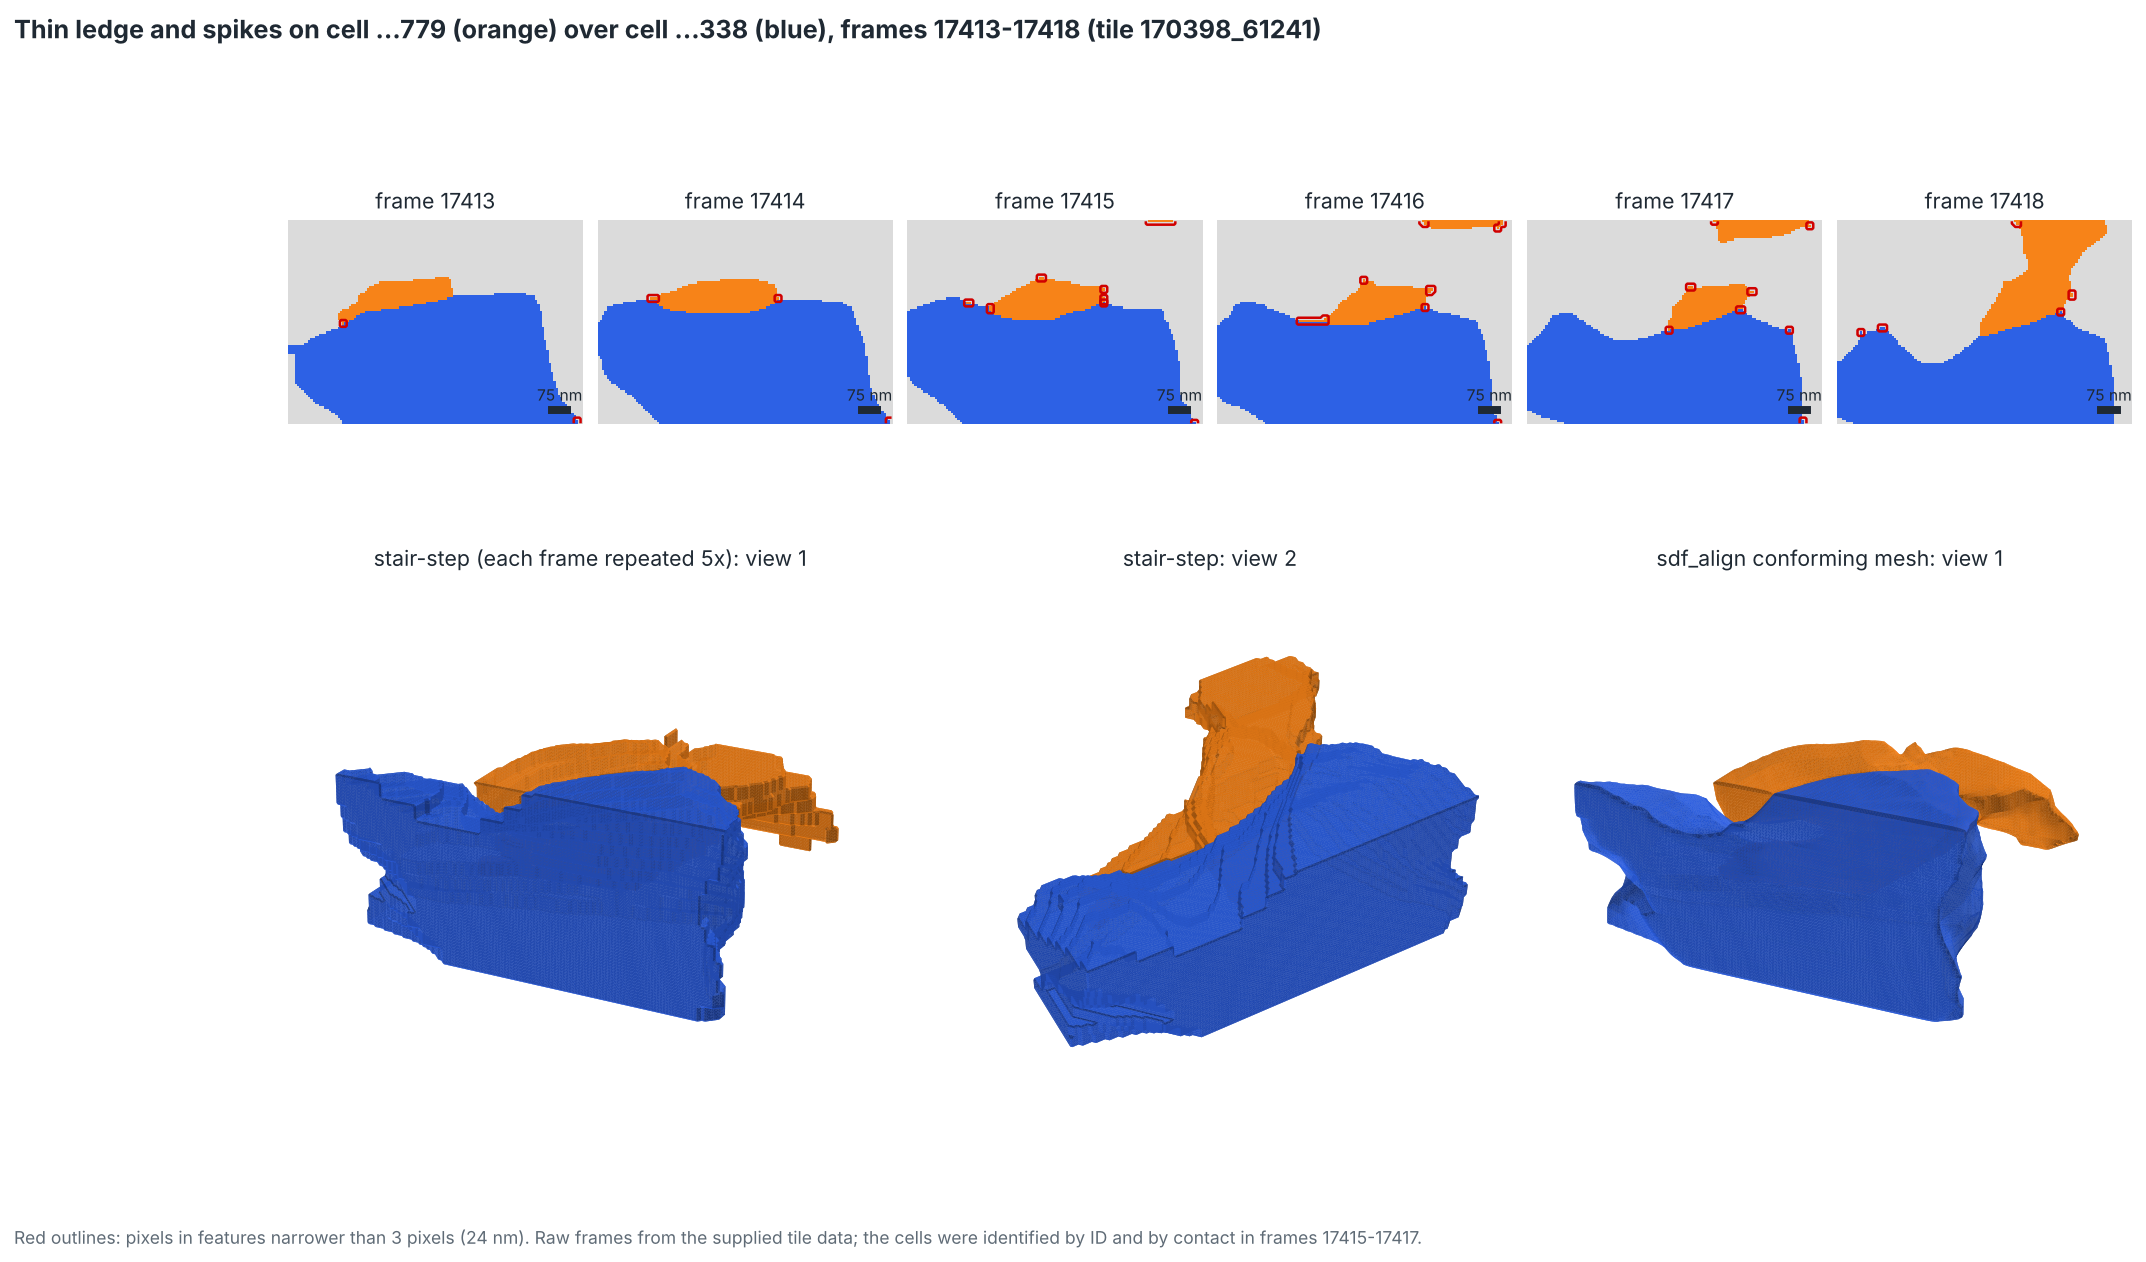
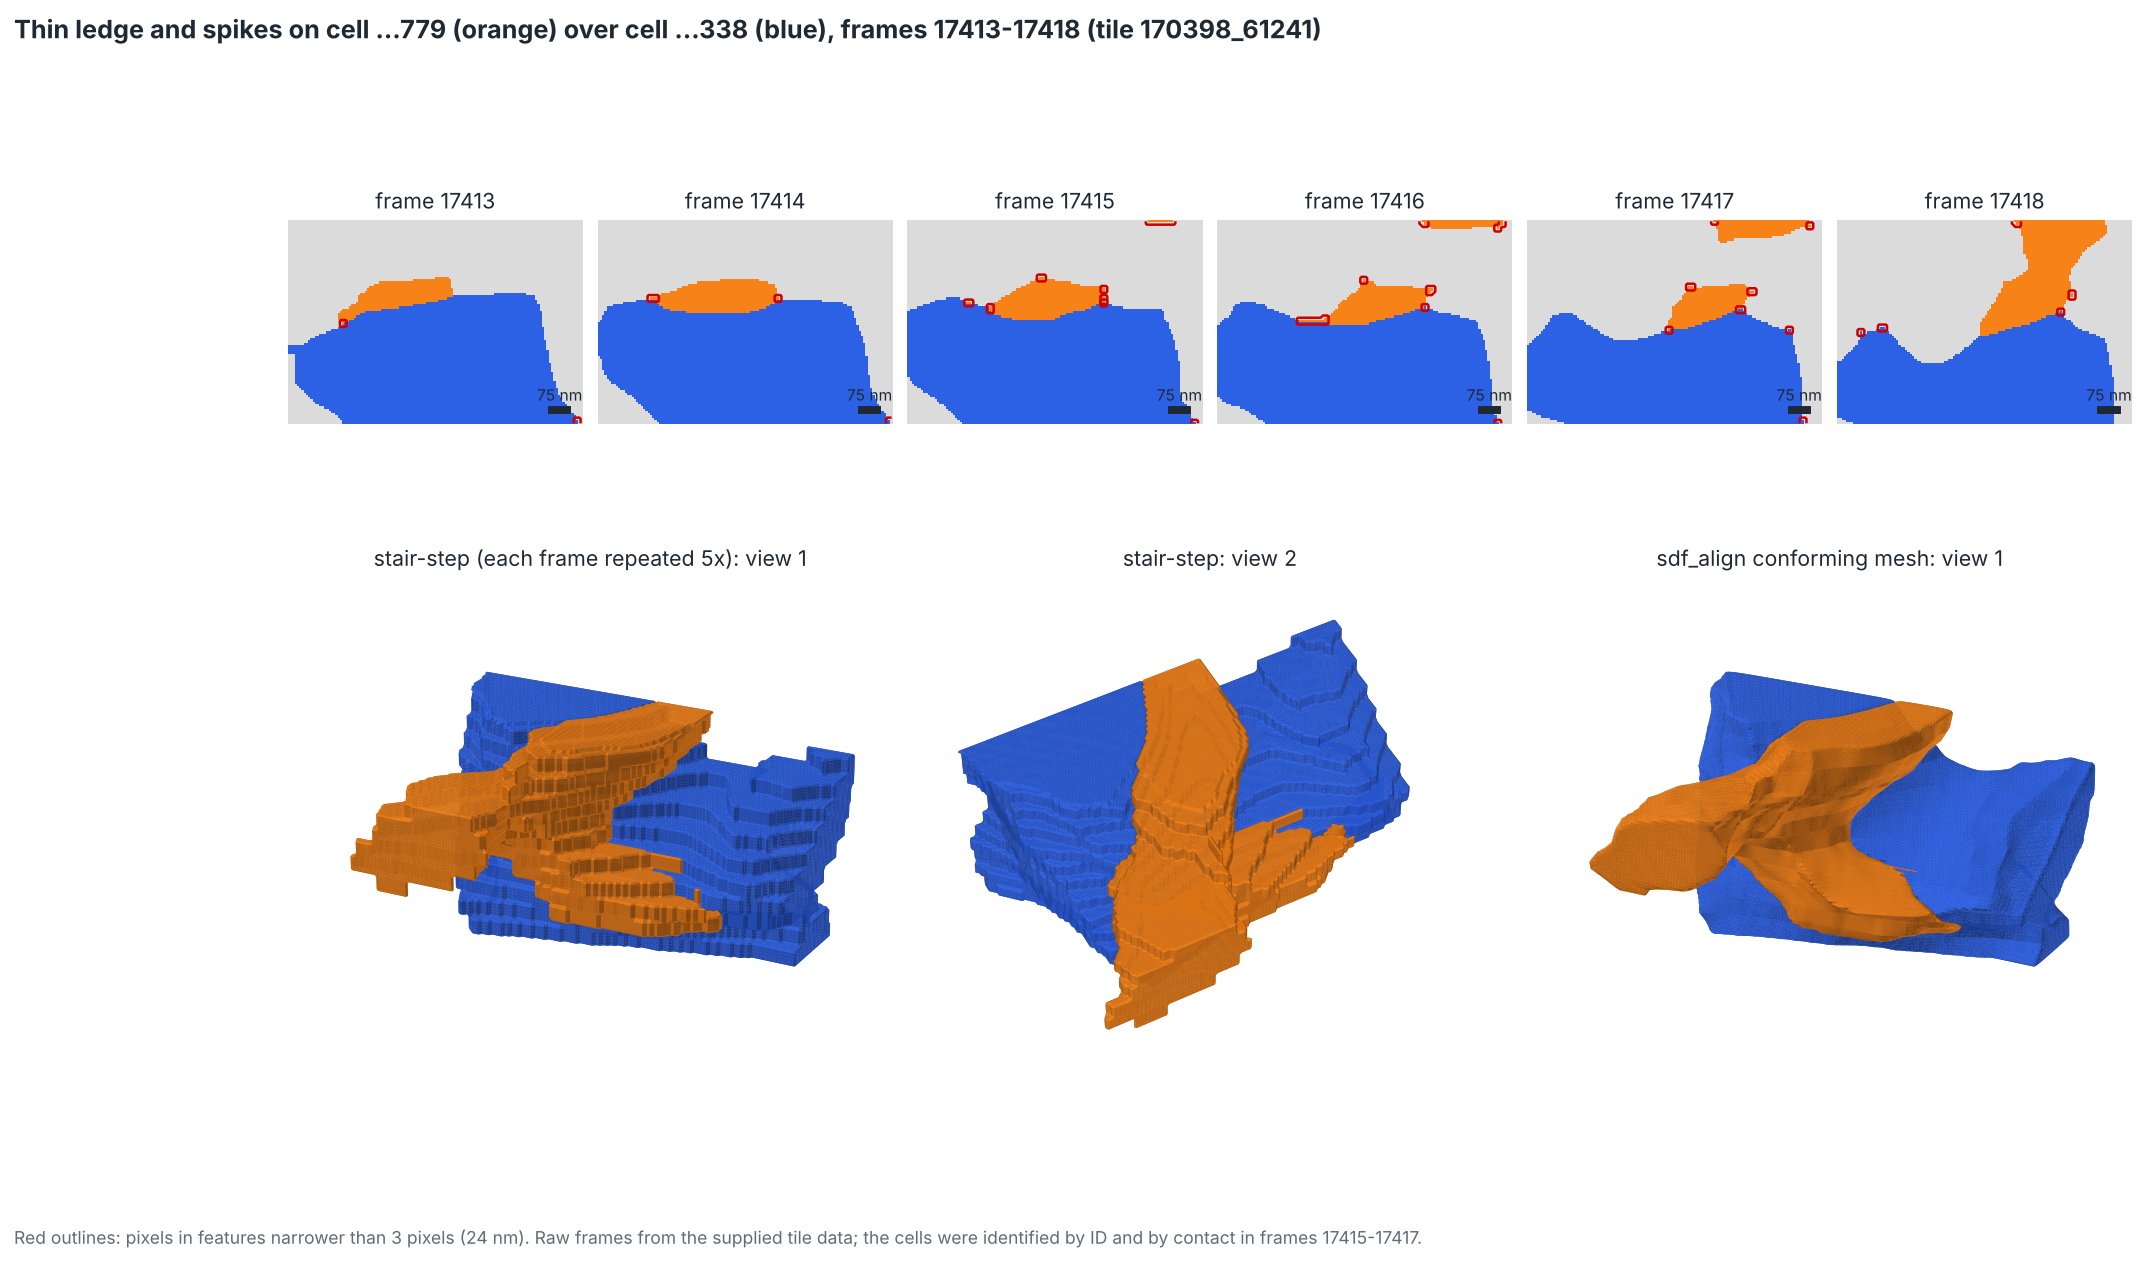
Figure 2 reproduction: yaw the 3-D views by 180 degrees
Claude-Session: https://claude.ai/code/session_01QHM7TWEPVeYeANFngaV58p

Changed region(s): [[0.4371, 0.4945, 0.6869, 0.8344], [0.1561, 0.5254, 0.4059, 0.8344], [0.7181, 0.5254, 0.9991, 0.8035]]

diff --git a/examples/make_figure2.py b/examples/make_figure2.py
@@ -70,9 +70,9 @@ def draw(ax, meshes, view, title, bar=True):
 
 axes = [fig.add_subplot(gs[1, :2], projection="3d"), fig.add_subplot(gs[1, 2:4], projection="3d"),
         fig.add_subplot(gs[1, 4:], projection="3d")]
-draw(axes[0], st, (22, -62), "stair-step (each frame repeated 5x): view 1")
-draw(axes[1], st, (50, -118), "stair-step: view 2")
-draw(axes[2], sm, (22, -62), "sdf_align conforming mesh: view 1")
+draw(axes[0], st, (22, 118), "stair-step (each frame repeated 5x): view 1")
+draw(axes[1], st, (50, 62), "stair-step: view 2")
+draw(axes[2], sm, (22, 118), "sdf_align conforming mesh: view 1")
 fig.suptitle("Thin ledge and spikes on cell …779 (orange) over cell …338 (blue), frames 17413-17418 (tile 170398_61241)",
              fontsize=13, fontweight="bold", x=0.01, ha="left", y=0.965)
 fig.text(0.01, 0.01, "Red outlines: pixels in features narrower than 3 pixels (24 nm). Raw frames from the supplied tile data; "
